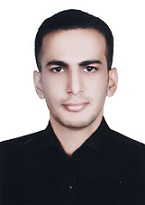
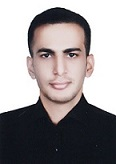
s

diff --git a/index.html b/index.html
@@ -20,7 +20,7 @@
         <nav class="navbar navbar-expand-lg navbar-dark bg-primary fixed-top" id="sideNav">
             <a class="navbar-brand js-scroll-trigger" href="#page-top">
                 <span class="d-block d-lg-none">Mohammad Reza Rohanipoor</span> 
-                <span class="d-none d-lg-block"><img class="img-fluid img-profile rounded-circle mx-auto mb-2" src="assets/img/profile.jpg" alt="" /></span>
+                <span class="d-none d-lg-block"><img class="img-fluid img-profile rounded-circle mx-auto mb-2" src="assets/img/profile2.jpg" alt="" /></span>
             </a>
             <button class="navbar-toggler" type="button" data-toggle="collapse" data-target="#navbarSupportedContent" aria-controls="navbarSupportedContent" aria-expanded="false" aria-label="Toggle navigation"><span class="navbar-toggler-icon"></span></button>
             <div class="collapse navbar-collapse" id="navbarSupportedContent">
